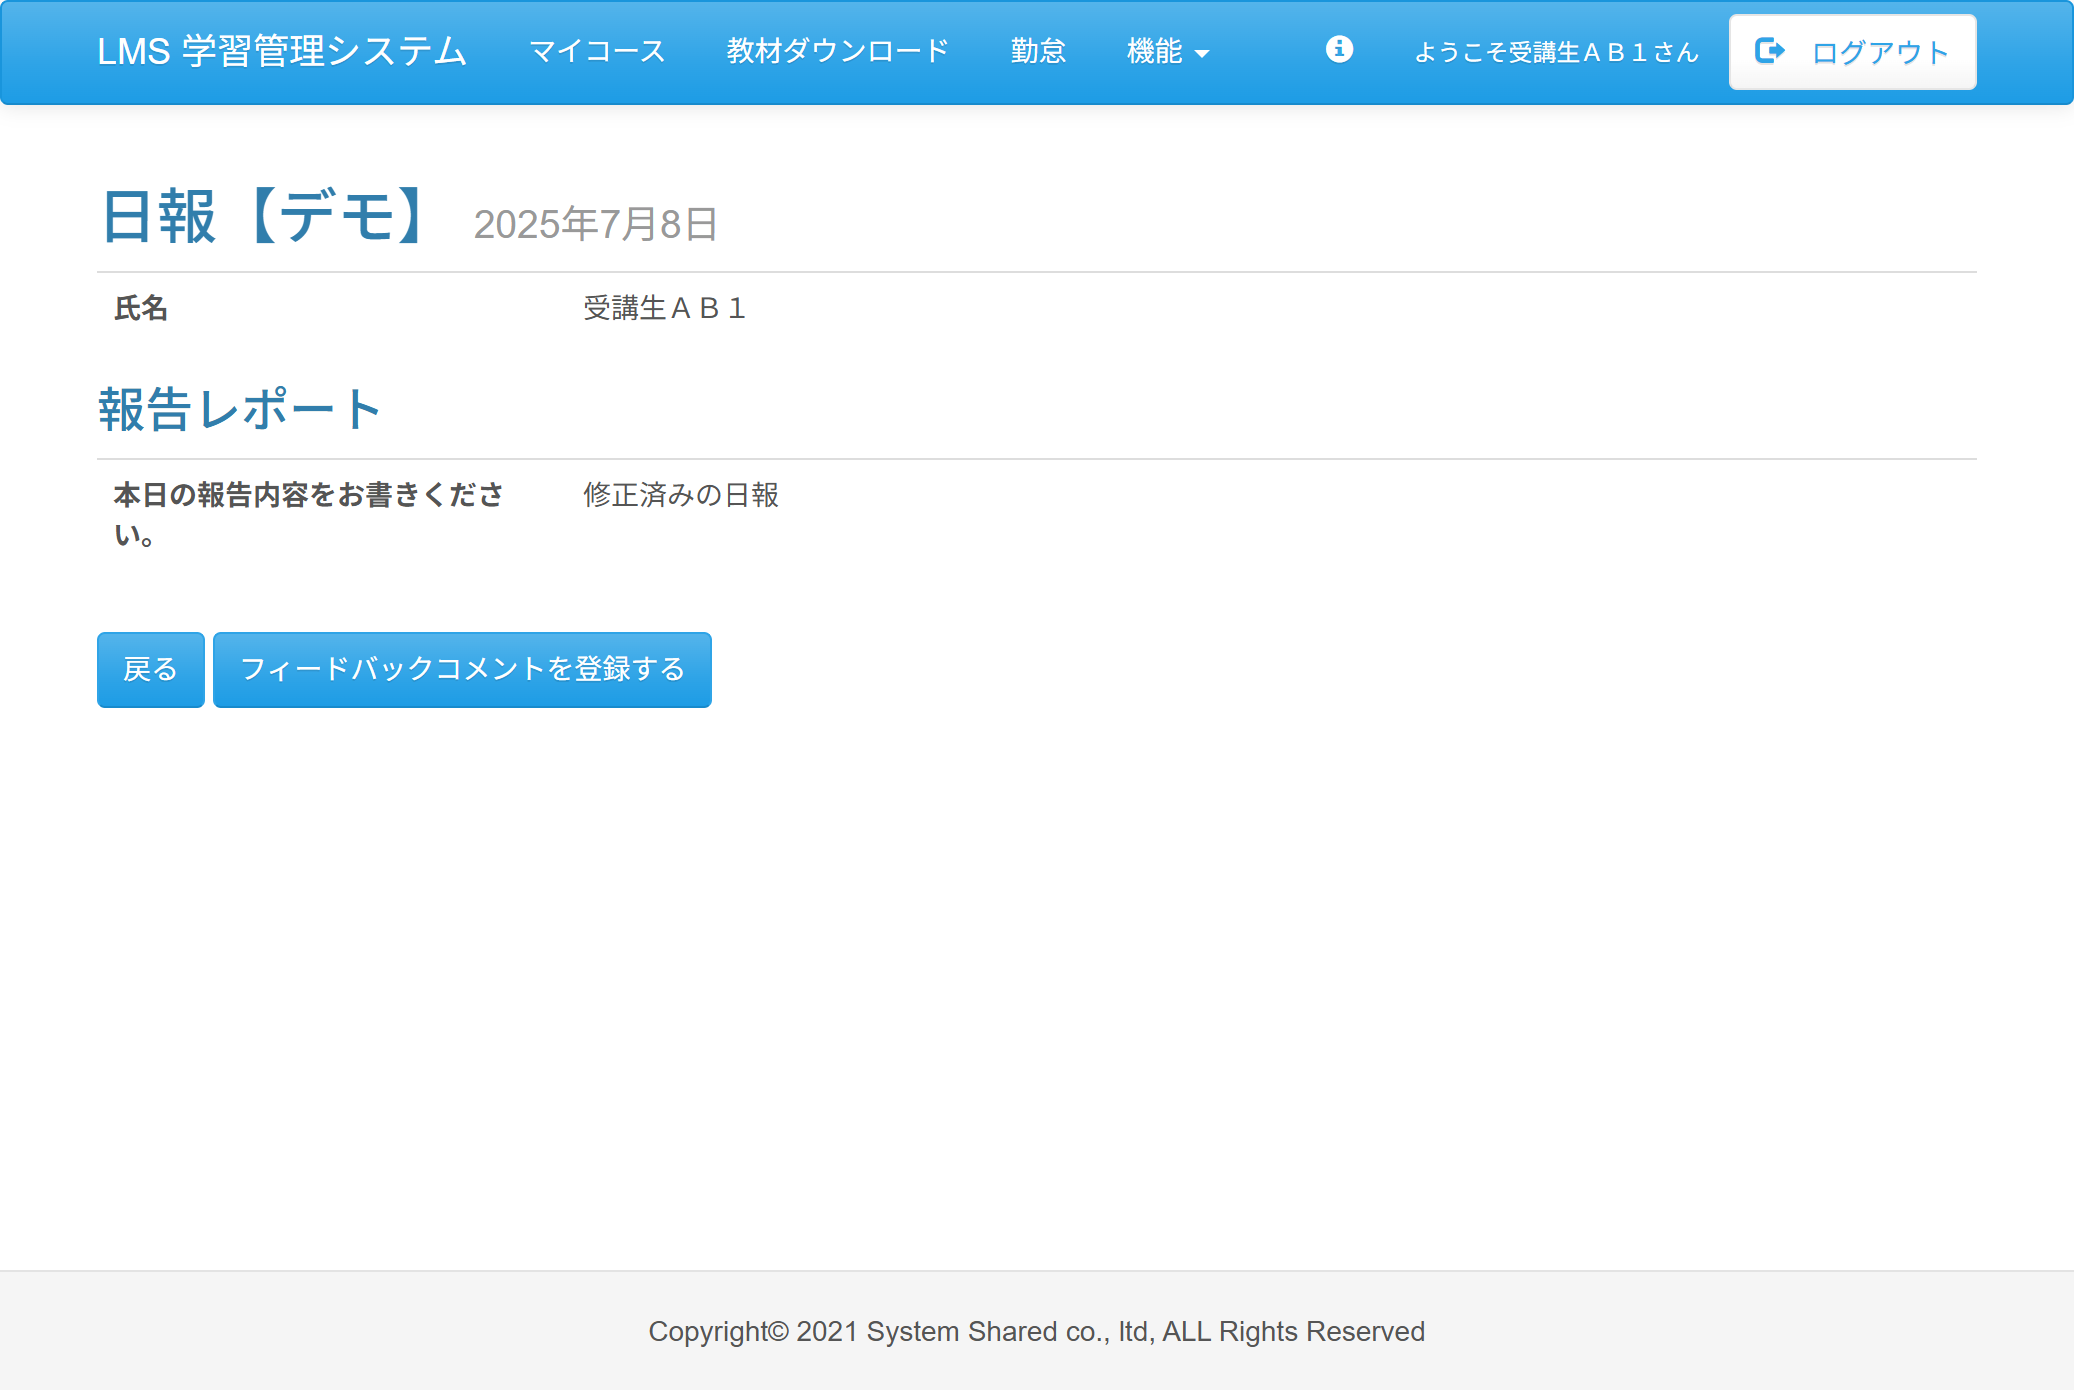
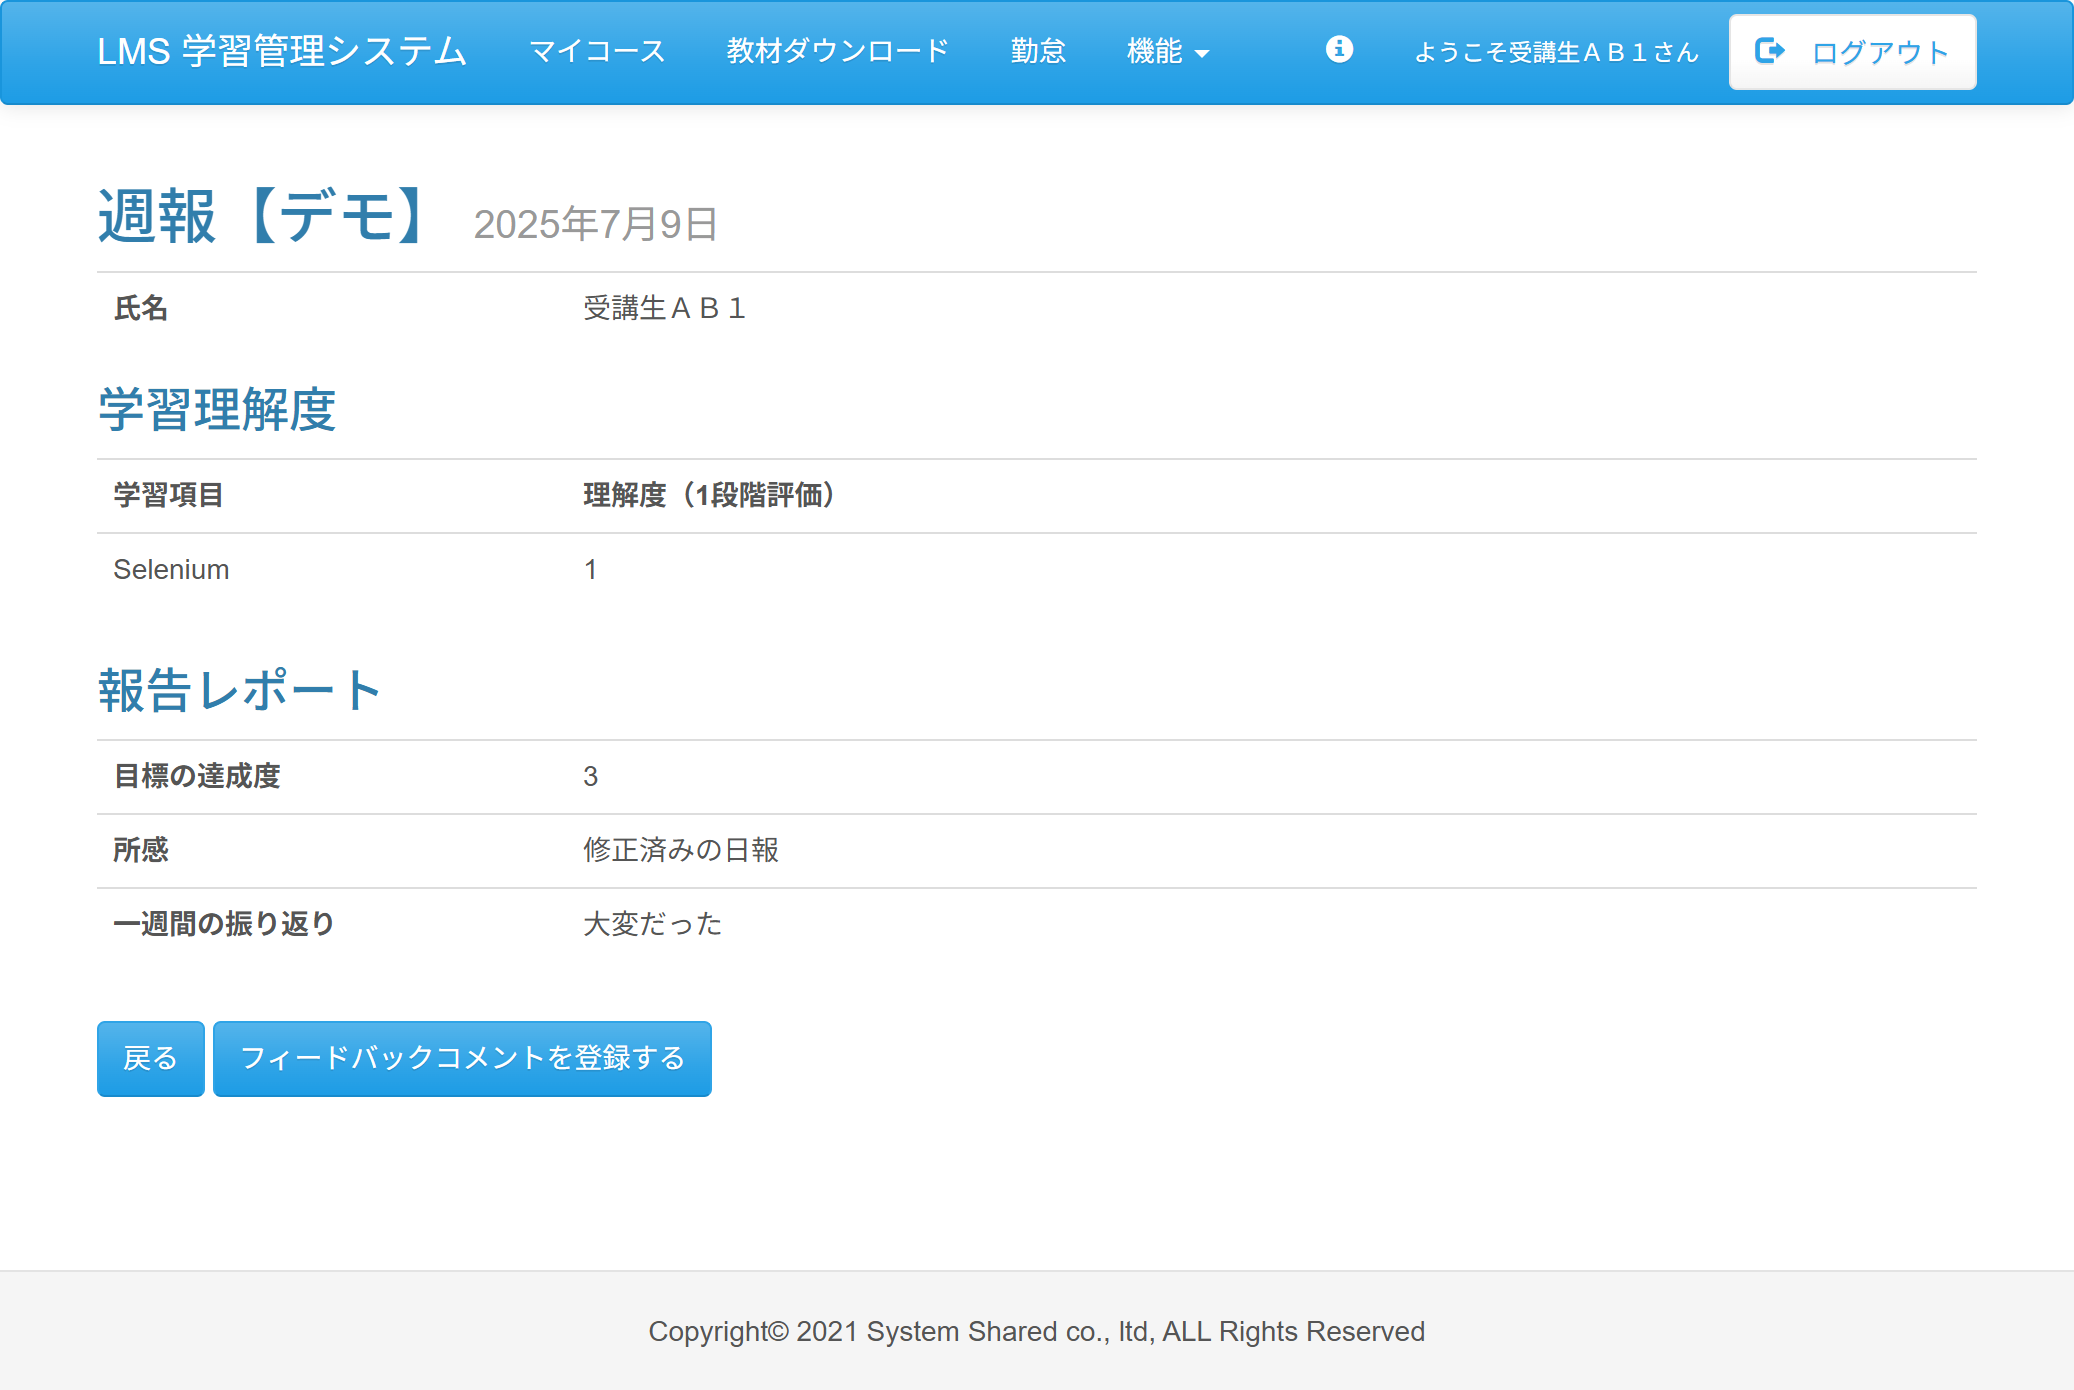
fix:Okamoto Case.08 日報の確認になっていたため週報の確認に変更
コード、仕様書ともに日報の確認・修正になっていたため、週報に変更

diff --git a/test_code_creation_name/src/test/java/jp/co/sss/lms/ct/f03_report/Case08.java b/test_code_creation_name/src/test/java/jp/co/sss/lms/ct/f03_report/Case08.java
@@ -94,11 +94,12 @@ public class Case08 {
 	@Order(3)
 	@DisplayName("テスト03 提出済の研修日の「詳細」ボタンを押下しセクション詳細画面に遷移")
 	void test03() {
-		//日付が一番若いもので検証
-		assertEquals("提出済み", webDriver.findElement(By.className("w10per")).getText());
 
-		//詳細ボタン押下
-		WebElement detailBtnElement = webDriver.findElement(By.cssSelector("input[value='詳細']"));
+		List<WebElement> reportRows = webDriver.findElements(By.cssSelector(".table.table-hover.sctionList tr"));
+
+		// 一番下のレポート行を取得
+		WebElement targetRow = reportRows.get(1);
+		WebElement detailBtnElement = targetRow.findElement(By.cssSelector("input[value='詳細']"));
 		detailBtnElement.click();
 
 		//待ち処理
@@ -116,8 +117,9 @@ public class Case08 {
 	@Order(4)
 	@DisplayName("テスト04 「確認する」ボタンを押下しレポート登録画面に遷移")
 	void test04() {
+
 		//確認するボタン押下
-		WebElement comfirmElement = webDriver.findElement(By.cssSelector("input[value='提出済み日報【デモ】を確認する']"));
+		WebElement comfirmElement = webDriver.findElement(By.cssSelector("input[value='提出済み週報【デモ】を確認する']"));
 		comfirmElement.click();
 
 		//待ち処理
@@ -135,17 +137,15 @@ public class Case08 {
 	@DisplayName("テスト05 報告内容を修正して「提出する」ボタンを押下しセクション詳細画面に遷移")
 	void test05() {
 		//テキストエリア取得・入力
-		WebElement textAreaElement = webDriver.findElement(By.id("content_0"));
+		WebElement textAreaElement = webDriver.findElement(By.id("content_1"));
 		textAreaElement.clear();
-		textAreaElement.sendKeys("修正済みの日報");
+		textAreaElement.sendKeys("修正済みの週報");
 
 		//提出するボタン押下
 		WebElement completeSubmitElement = webDriver.findElement(By.cssSelector(".btn.btn-primary"));
-		completeSubmitElement.click();
+		((JavascriptExecutor) webDriver).executeScript("arguments[0].scrollIntoView(true);", completeSubmitElement);
 
-		//待ち処理
-		final WebDriverWait wait = new WebDriverWait(webDriver, Duration.ofSeconds(60));
-		wait.until(ExpectedConditions.visibilityOfElementLocated(By.id("sectionDetail")));
+		completeSubmitElement.click();
 
 		WebDriverUtils.getEvidence(new Object() {
 		}, "case08_05");
@@ -168,17 +168,19 @@ public class Case08 {
 	@Order(7)
 	@DisplayName("テスト07 該当レポートの「詳細」ボタンを押下しレポート詳細画面で修正内容が反映される")
 	void test07() {
-		List<WebElement> reportRows = webDriver.findElements(By.cssSelector(".table.table-hover tr"));
+		List<WebElement> rows = webDriver.findElements(By.cssSelector("tr"));
 
-		// 一番下のレポート行を取得
-		WebElement targetRow = reportRows.get(reportRows.size() - 1);
-		WebElement detailElement = targetRow.findElement(By.cssSelector("input[value='詳細']"));
+		for (WebElement row : rows) {
+			if (row.getText().contains("週報【デモ】")) {
+				WebElement detailElement = row.findElement(By.cssSelector("input[value='詳細']"));
 
-		//該当レポートまでスクロール
-		((JavascriptExecutor) webDriver).executeScript("arguments[0].scrollIntoView({block: 'center'});",
-				detailElement);
+				((JavascriptExecutor) webDriver).executeScript("arguments[0].scrollIntoView({block: 'center'});",
+						detailElement);
 
-		detailElement.click();
+				detailElement.click();
+				break;
+			}
+		}
 
 		//待ち処理
 		final WebDriverWait wait = new WebDriverWait(webDriver, Duration.ofSeconds(60));
@@ -186,7 +188,7 @@ public class Case08 {
 
 		// 修正した文言になっているか確認
 		List<WebElement> confirmTextElement = webDriver.findElements(By.cssSelector(".table.table-hover td"));
-		assertEquals("修正済みの日報", confirmTextElement.get(1).getText());
+		assertEquals("修正済みの日報", confirmTextElement.get(4).getText());
 
 		WebDriverUtils.getEvidence(new Object() {
 		}, "case08_07");
